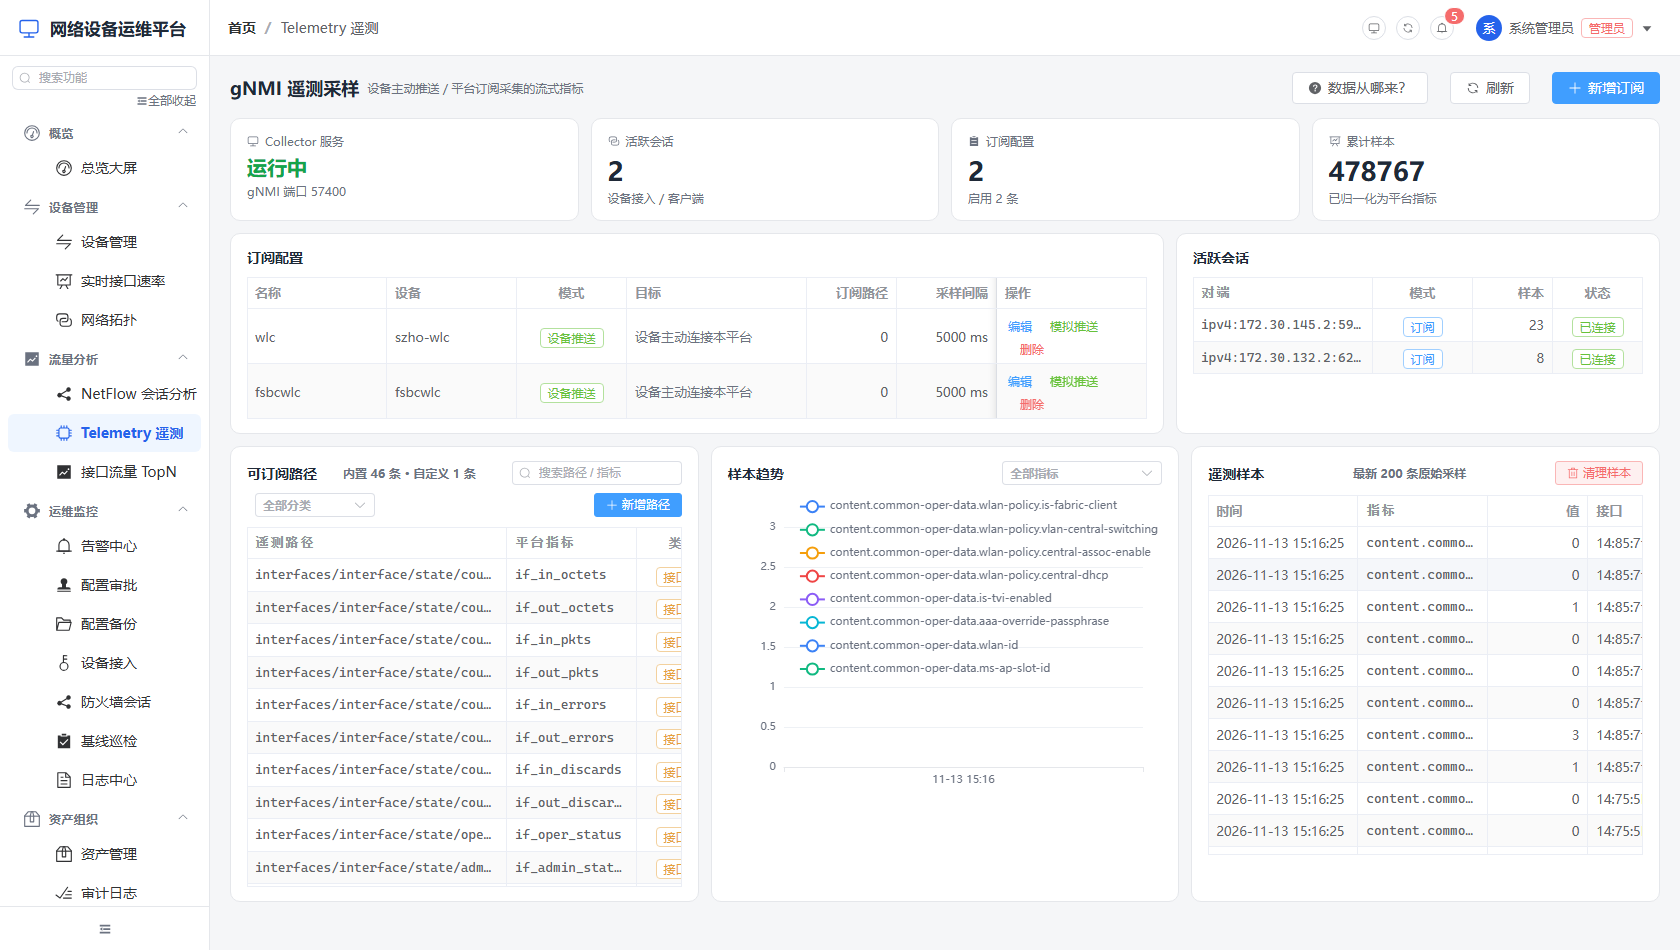
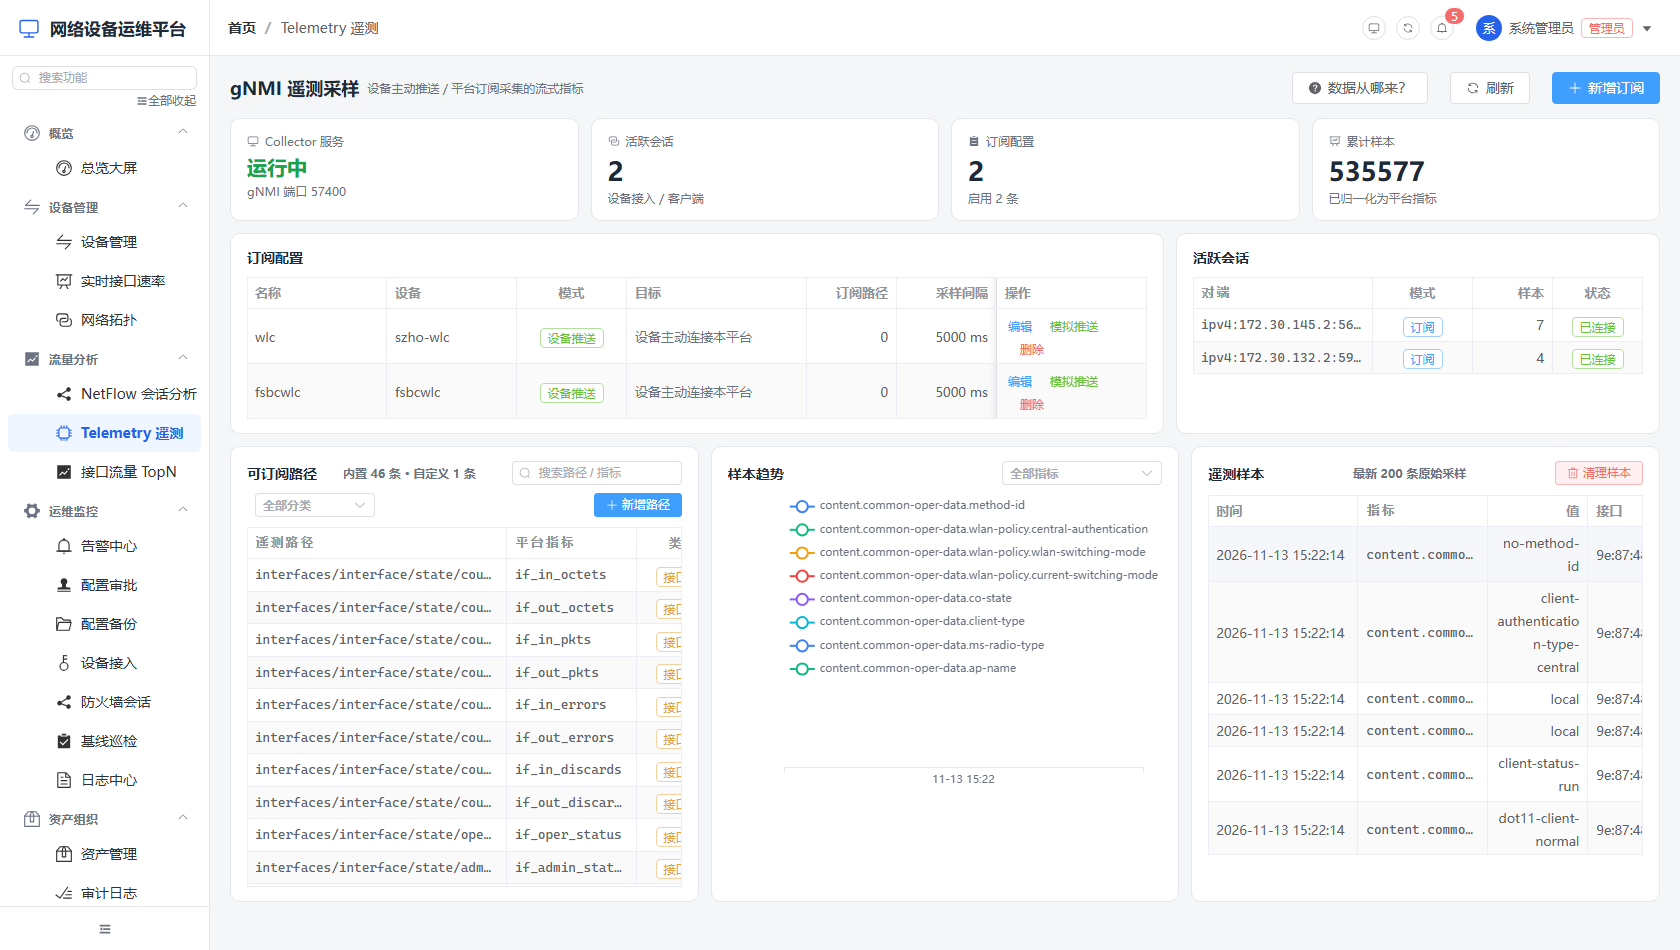
feat: 遥测字符串子项入库（订阅子项在遥测页完整可见）
问题：用户问「/wireless-access-point-oper:access-point-oper-data
等订阅数据的子项收集器能读取出来吗」——解析器是全树递归的
（AP/客户端/位置三类全部读出），但审计入库只存数值型，
字符串子项（client-mac / ap-name / ssid / bssid / 协议类型等）
虽能解析、合并器也在用，却在遥测页看不到。

改进：样本审计加字符串限量入库
- 数值型每批 200 条（不变）+ 字符串型每批 100 条，独立限额
  互不挤占
- 字符串按 metric 路径去重（每批每类字段存最新一条样例值，
  带条目身份 interface），避免重复占限额
- 单元验证：模拟客户端批（数值+字符串混合 12 条）入库，
  client-mac / ap-name / ms-radio-type 均可在样本表查询到

各订阅实测可读子项（已入库验证）：
- client-oper-data：每客户端 18 字段（wlan-id / idle-timeout /
  ms-ap-slot-id / guest-lan-info / wlan-policy.* 等）
- access-point-oper-data：AP 邻居（channel / primary-channel /
  rssi / slot-id + 字符串 bssid / ssid / ap-mac）
- location-oper-data：每客户端 RSSI 测量（rssi-value-a/b / snr）

回归：verify_gnmi_switch 16/16、verify_new_features 29/29

Changed region(s): [[0.7119, 0.5495, 0.9905, 0.8853], [0.4643, 0.5189, 0.681, 0.7326], [0.7738, 0.1526, 0.8357, 0.2137]]

diff --git a/backend/app/services/telemetry_service.py b/backend/app/services/telemetry_service.py
@@ -241,7 +241,27 @@ def store_telemetry_samples(
         numeric_samples = [
             s for s in samples if _to_float(s.value) is not None
         ]
-        for s in numeric_samples[:200]:
+        # 字符串子项（ap-mac / ssid / bssid / 协议类型 / client-mac 等）
+        # 也限量入库——否则「订阅包含哪些子项」在遥测页看不到，
+        # 数值与字符串各留独立限额互不挤占
+        string_samples = [
+            s for s in samples
+            if _to_float(s.value) is None
+            and isinstance(s.value, str)
+            and len(s.value) <= 120
+        ]
+        # 字符串样本按 metric 去重（每批每路径存最新一条，
+        # 避免同名字段重复占限额）
+        seen_metrics = set()
+        deduped_strings = []
+        for s in reversed(string_samples):
+            if s.metric not in seen_metrics:
+                seen_metrics.add(s.metric)
+                deduped_strings.append(s)
+        audit_samples = (
+            numeric_samples[:200] + list(reversed(deduped_strings))[:100]
+        )
+        for s in audit_samples:
             num = _to_float(s.value)
             db.add(
                 TelemetrySampleModel(
